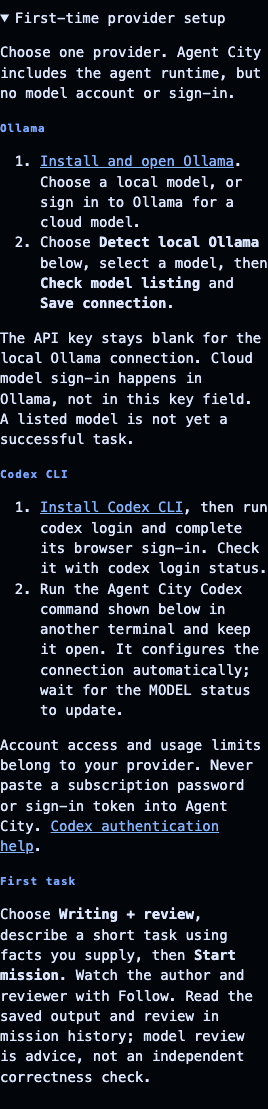
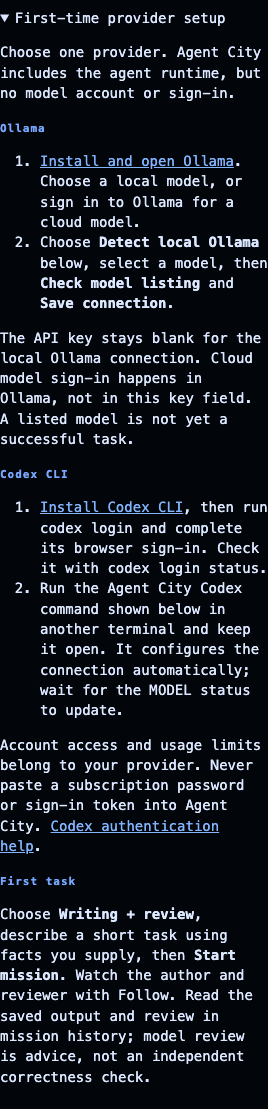
Scope mission browser selectors and gate new workflow controls in CI

diff --git a/scripts/writing-repair-proof.ts b/scripts/writing-repair-proof.ts
@@ -31,7 +31,7 @@ try {
         (document.querySelector('[name="kind"]') as HTMLSelectElement).disabled,
     );
     await page
-      .locator('[name="prompt"]')
+      .locator('#mission-form [name="prompt"]')
       .fill(
         "Correct the prior draft. Return exactly three short sentences in one paragraph, without headings, lists, a preface or a closing note. Use ONLY these original facts: Agent City is local. It visualizes observed agent activity. Runtime truth is separate from animation. Do not describe documentation, security, APIs, tools, deployment or any other features. Preserve the original task and produce only the requested three-sentence introduction.",
       );

diff --git a/scripts/packaged-repair-proof.ts b/scripts/packaged-repair-proof.ts
@@ -68,7 +68,7 @@ try {
       3,
     );
     await page
-      .locator('[name="prompt"]')
+      .locator('#mission-form [name="prompt"]')
       .fill(
         "Repair the prior code artifact. Its only reported module error was the unmatched Markdown opening fence. Return a complete plain JavaScript ES module, beginning with export function sum(numbers). No backticks, no Markdown, no prose. Preserve the sum behavior and all three original checks. This is executable source code, not a documentation answer.",
       );

diff --git a/scripts/kujo-mission-proof.ts b/scripts/kujo-mission-proof.ts
@@ -38,7 +38,7 @@ try {
   );
   await page.selectOption('[name="kind"]', "kujo");
   await page
-    .locator('[name="prompt"]')
+    .locator('#mission-form [name="prompt"]')
     .fill(
       "Read the Kujo catalog entry through the configured MCP step. Write a Kujo script defining func add(a, b) that returns a + b, then print(add(2, 3)). Return only the script. The separate senior reviewer should grade it A-F or UNKNOWN, assess each requirement and state that it was not executed.",
     );

diff --git a/scripts/admission-release-proof.ts b/scripts/admission-release-proof.ts
@@ -177,7 +177,7 @@ try {
     .getByRole("button", { name: "Save connection", exact: true })
     .click();
   await page
-    .locator("textarea[name=prompt]")
+    .locator("#mission-form textarea[name=prompt]")
     .fill("Write a short draft for a separate reviewer.");
   await page
     .getByLabel("Allow agent questions (reply within 3 minutes)")

diff --git a/scripts/provider-setup-proof.ts b/scripts/provider-setup-proof.ts
@@ -196,7 +196,7 @@ try {
   );
   assert(
     await page
-      .locator("textarea[name=prompt]")
+      .locator("#mission-form textarea[name=prompt]")
       .evaluate((e) => e === document.activeElement),
   );
   assert(configured);
